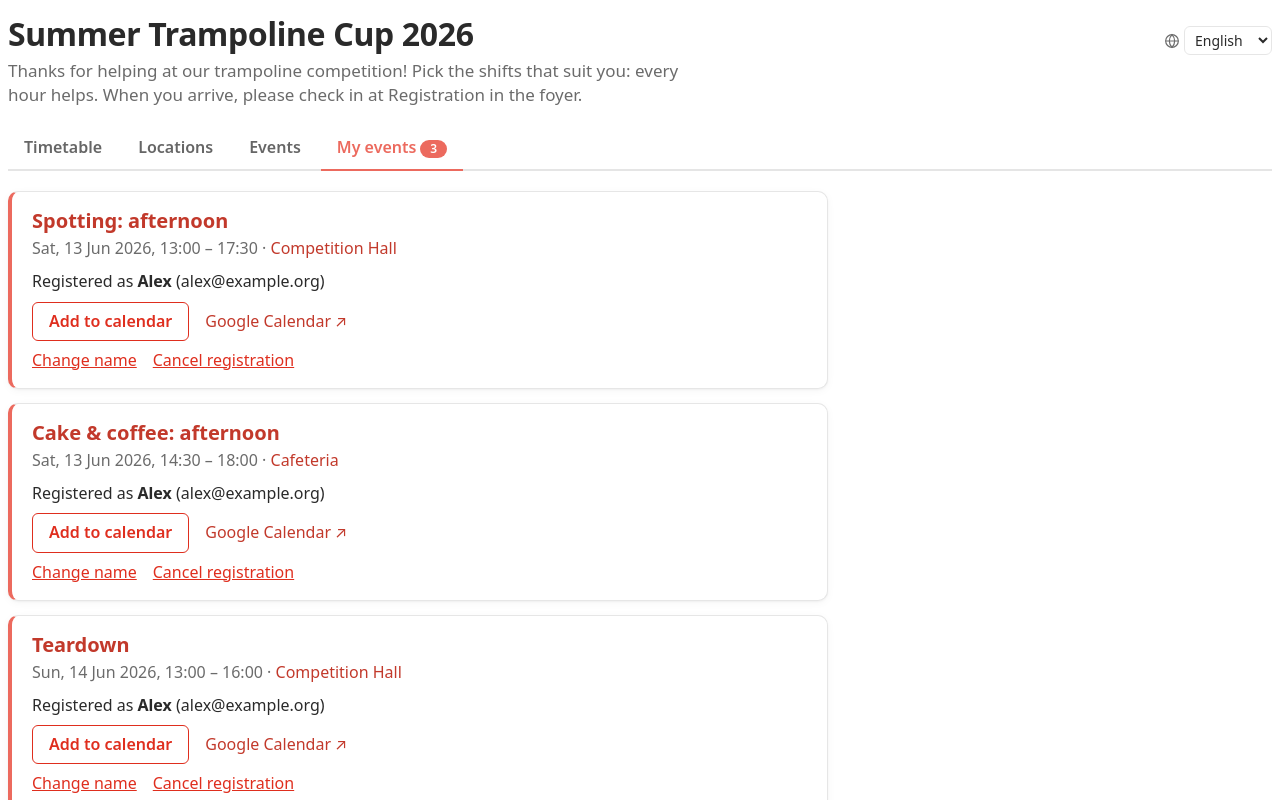
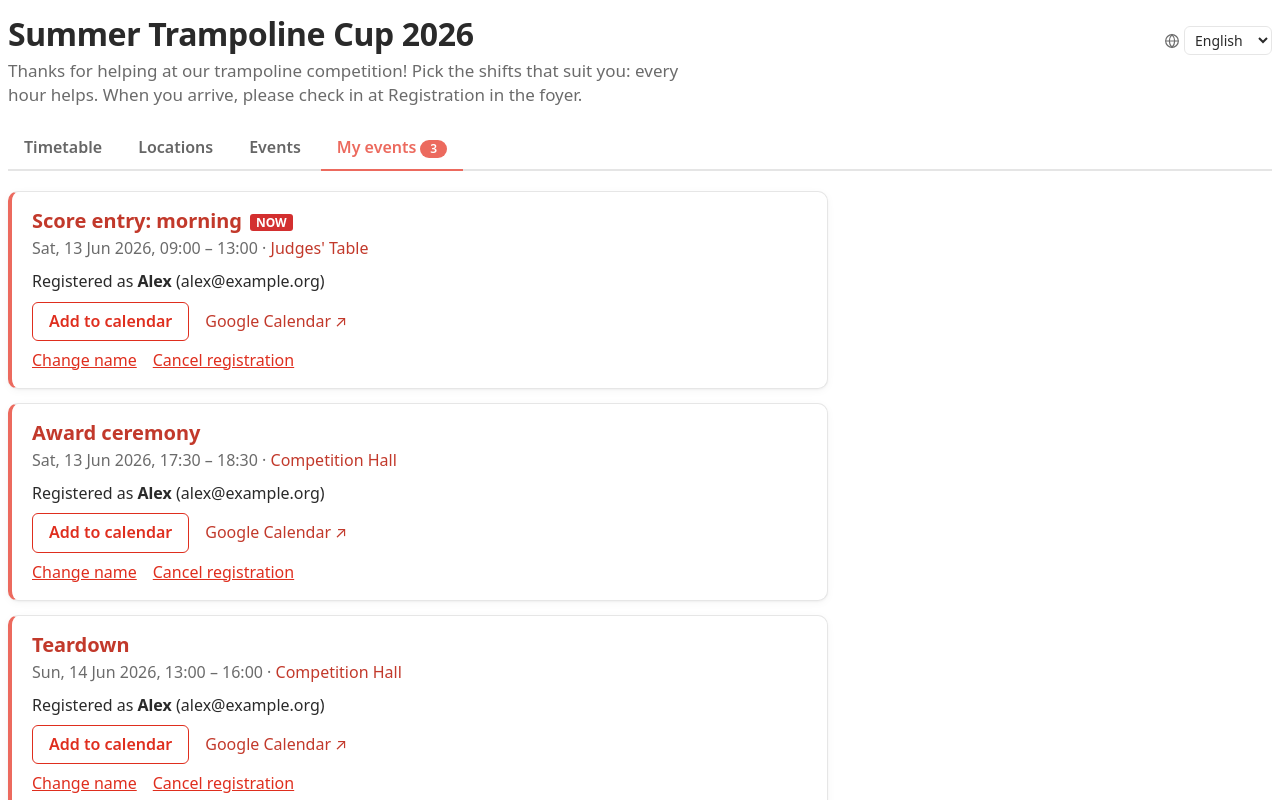
UI: Show "Now" and "Past" markers on My events & example fixes
The example had overlapping events. Also, Now and Past markers are now shown on "My events" and they are now translated.

Changed region(s): [[0.0312, 0.25, 0.3125, 0.3438], [0.0312, 0.5312, 0.2188, 0.5625], [0.2188, 0.5625, 0.3125, 0.5938]]

diff --git a/public/style.css b/public/style.css
@@ -416,8 +416,12 @@ a {
   text-decoration-color: rgba(0, 0, 0, 0.3);
 }
 
+/* "Now" and "Past" labels, on the Events tab and on "My events". The texts come
+   from the translations (set by the page script as --label-now and --label-past). */
 .event-info-list article.is-past h2::after,
-.event-info-list article.is-current h2::after {
+.event-info-list article.is-current h2::after,
+.my-event-list article.is-past h2::after,
+.my-event-list article.is-current h2::after {
   display: inline-block;
   margin-left: 8px;
   padding: 1px 6px;
@@ -428,14 +432,16 @@ a {
   vertical-align: middle;
 }
 
-.event-info-list article.is-past h2::after {
-  content: 'Past';
+.event-info-list article.is-past h2::after,
+.my-event-list article.is-past h2::after {
+  content: var(--label-past, 'Past');
   background-color: #E5E5E5;
   color: #666;
 }
 
-.event-info-list article.is-current h2::after {
-  content: 'Now';
+.event-info-list article.is-current h2::after,
+.my-event-list article.is-current h2::after {
+  content: var(--label-now, 'Now');
   background-color: #D32F2F;
   color: white;
 }

diff --git a/public/index.htm b/public/index.htm
@@ -1782,6 +1782,9 @@
        * ------------------------------------------------------------------ */
 
       function renderAll() {
+        // Texts of the "Now" and "Past" labels on event cards (drawn by the stylesheet).
+        document.documentElement.style.setProperty('--label-now', JSON.stringify(t('events.labelNow')));
+        document.documentElement.style.setProperty('--label-past', JSON.stringify(t('events.labelPast')));
         renderTimetable();
         var locationInfoIds = getLocationInfoIds();
         renderEventInfo(locationInfoIds);

diff --git a/public/lang/de.js b/public/lang/de.js
@@ -65,6 +65,8 @@ I18n.addLanguage('de', 'Deutsch', 'de-DE', {
   'events.allOver': 'Alle Veranstaltungen sind vorbei.',
   'events.none': 'Es gibt noch keine Veranstaltungen.',
   'events.past': 'Vergangene Veranstaltungen ({n})',
+  'events.labelNow': 'Jetzt',
+  'events.labelPast': 'Vorbei',
   'events.missing': { one: 'noch {n} Person gesucht (Minimum {min})', other: 'noch {n} Personen gesucht (Minimum {min})' },
   'events.minimumReached': 'Minimum von {min} erreicht ✓',
   'events.registeredFull': '{registered} von {max} angemeldet (voll)',

diff --git a/public/lang/en.js b/public/lang/en.js
@@ -67,6 +67,8 @@ I18n.addLanguage('en', 'English', 'en-GB', {
   'events.allOver': 'All events are over.',
   'events.none': 'There are no events yet.',
   'events.past': 'Past events ({n})',
+  'events.labelNow': 'Now',
+  'events.labelPast': 'Past',
   'events.missing': { one: '{n} more person needed (minimum {min})', other: '{n} more people needed (minimum {min})' },
   'events.minimumReached': 'minimum of {min} reached ✓',
   'events.registeredFull': '{registered} of {max} registered (full)',
